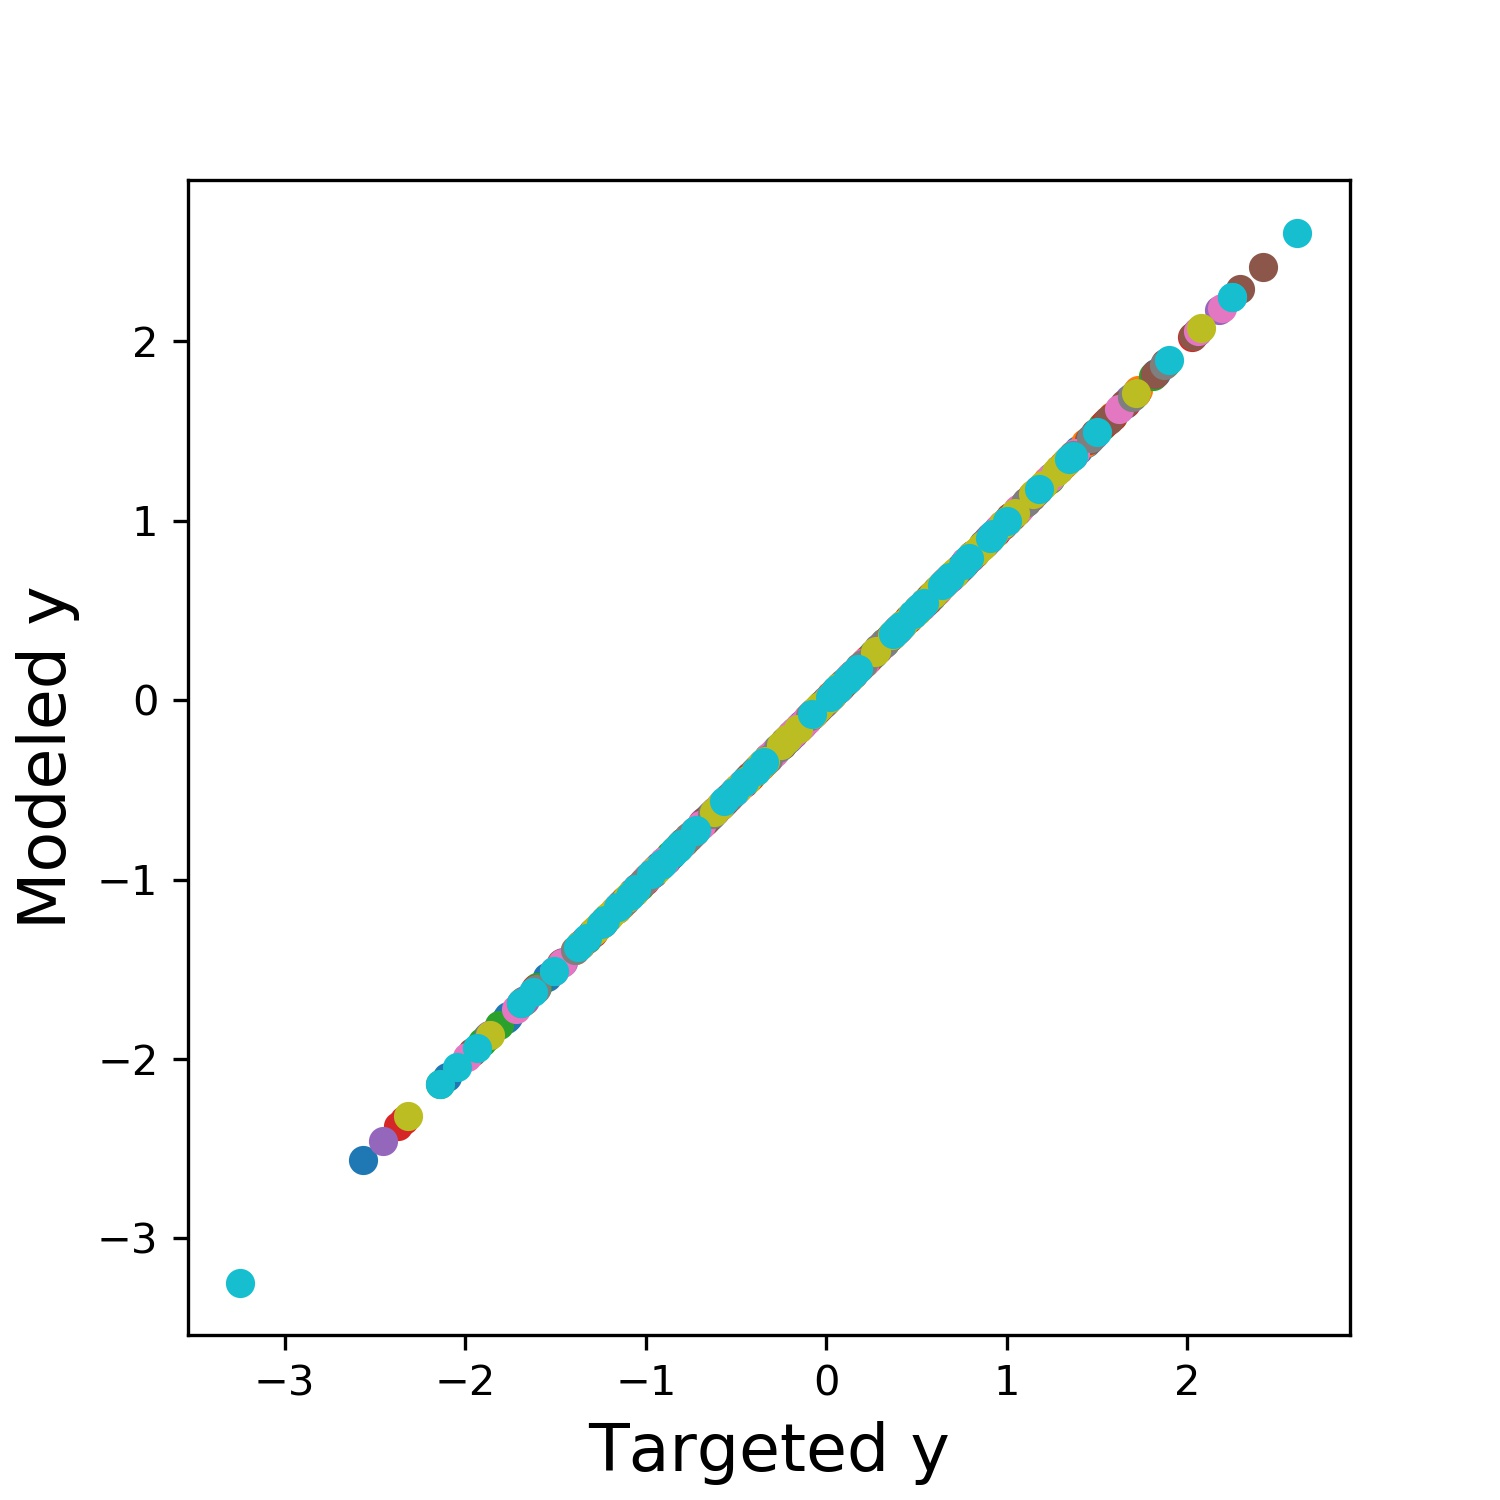
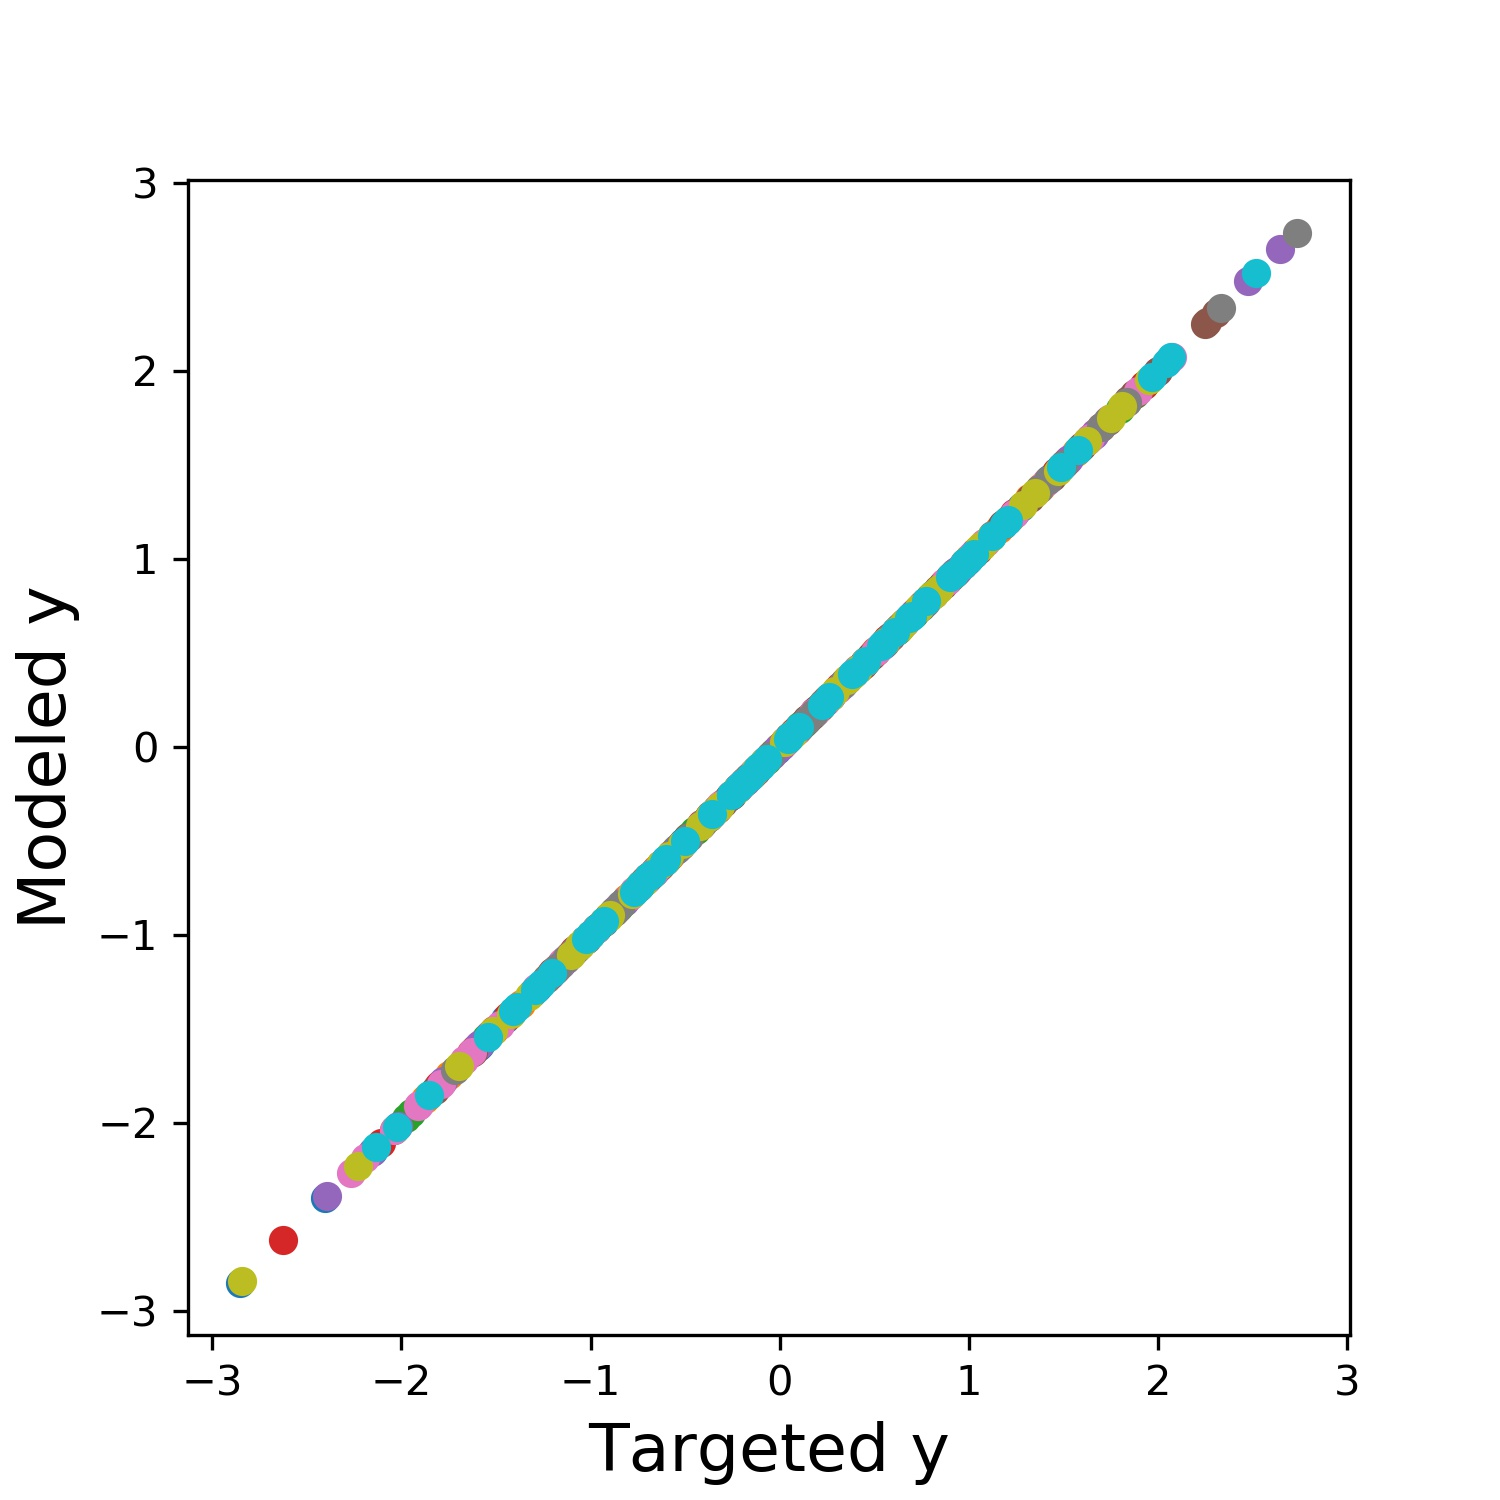
learn more examples of regression

diff --git a/pytorch/py-tutorial-5.py b/pytorch/py-tutorial-5.py
@@ -1,0 +1,120 @@
+# Regression with PyTorch
+# https://medium.com/@benjamin.phillips22/simple-regression-with-neural-networks-in-pytorch-313f06910379
+
+import torch
+from torch.autograd import Variable
+import torch.nn.functional as F
+import torch.utils.data as Data
+
+import matplotlib.pyplot as plt
+# matplotlib inline
+
+import numpy as np
+import imageio
+
+
+# this is one way to define a network
+class Net(torch.nn.Module):
+    def __init__(self, n_feature, n_hidden, n_output):
+        super(Net, self).__init__()
+
+        self.hidden = torch.nn.Linear(n_feature, n_hidden)   # hidden layer
+
+        self.predict = torch.nn.Linear(n_hidden, n_output)   # output layer
+
+    def forward(self, x):
+
+        # TODO: understand activation function
+        x = F.relu(self.hidden(x))      # activation function for hidden layer
+        x = self.predict(x)             # linear output
+
+        return x
+
+# sets the random seed from pytorch random number generators
+torch.manual_seed(1)    # reproducible
+
+# TODO: understand torch.usnqueeze()
+# x = torch.tensor([1,2,3])
+# print(x,x.size(),x.dim())
+
+# y = torch.unsqueeze(x,0)
+# print(y,y.size(),y.dim())
+
+x = torch.unsqueeze(torch.linspace(-1, 1, 100), dim=1)  
+# x data (tensor), shape=(100, 1)
+y = x.pow(2) + 0.2*torch.rand(x.size())
+# noisy y data (tensor), shape=(100, 1)
+
+# torch can only train on Variable, so convert them to Variable
+x, y = Variable(x), Variable(y)
+# TODO: understand Variable
+
+
+# view data
+plt.figure(figsize=(10,4))
+plt.scatter(x.data.numpy(), y.data.numpy(), color = "orange")
+plt.title('Regression Analysis')
+plt.xlabel('Independent varible')
+plt.ylabel('Dependent varible')
+plt.savefig('./tutorial-5-fig-1.jpg',dpi=300)
+
+# ? why in feature 1, hidden feature 10, and out feature 1?
+net = Net(n_feature=1, n_hidden=20, n_output=1)     # define the network
+print(net)  # net architecture
+
+# TODO: understand the optim.SGD
+optimizer = torch.optim.SGD(net.parameters(), lr=0.2)
+
+# define loss function
+loss_func = torch.nn.MSELoss()  # this is for regression mean squared loss
+
+my_images = []
+fig, ax = plt.subplots(figsize=(12,7))
+
+# train the network
+for t in range(200):
+
+    # input x and predict based on x
+    prediction = net(x)     
+
+    # must be (1. nn output, 2. target)
+    loss = loss_func(prediction, y)     
+    print(t, loss.item())
+
+    # clear gradients for next train
+    optimizer.zero_grad()
+
+    # backpropagation, compute gradients
+    loss.backward()
+
+    # apply gradients
+    optimizer.step()
+    
+    
+    # plot and show learning process
+    plt.cla()
+    ax.set_title('Regression Analysis', fontsize=35)
+    ax.set_xlabel('Independent variable', fontsize=24)
+    ax.set_ylabel('Dependent variable', fontsize=24)
+    ax.set_xlim(-1.05, 1.5)
+    ax.set_ylim(-0.25, 1.25)
+    
+    ax.scatter(x.data.numpy(), y.data.numpy(), color = "orange")
+    ax.plot(x.data.numpy(), prediction.data.numpy(), 'g-', lw=3)
+    
+    ax.text(1.0, 0.1, 'Step = %d' % t, fontdict={'size': 24, 'color':  'red'})
+    ax.text(1.0, 0, 'Loss = %.4f' % loss.data.numpy(),
+            fontdict={'size': 24, 'color':  'red'})
+
+    # Used to return the plot as an image array 
+    # (https://ndres.me/post/matplotlib-animated-gifs-easily/)
+
+    fig.canvas.draw()       # draw the canvas, cache the renderer
+    image = np.frombuffer(fig.canvas.tostring_rgb(), dtype='uint8')
+    image  = image.reshape(fig.canvas.get_width_height()[::-1] + (3,))
+    my_images.append(image)
+    
+
+# save images as a gif    
+#imageio.mimsave('./curve_1.gif', my_images, fps=10)
+

diff --git a/pytorch/py-tutorial-4-1.py b/pytorch/py-tutorial-4-1.py
@@ -1,0 +1,110 @@
+# Regression with PyTorch
+# https://carpentries-incubator.github.io/deep-learning_intro/03-regression/index.html
+
+import torch
+import torch.nn as nn
+import torch.nn.functional as F
+
+import numpy as np
+
+import matplotlib.pyplot as plt
+
+import pandas as pd
+
+# 64 samples
+N = 64
+# 1000 neurons in the input layer
+D_in = 1000
+# and 10 neurons in the output layer
+D_out = 10
+
+# Create random Tensors to hold inputs and outputs
+x = torch.randn(N, D_in)
+y = torch.randn(N, D_out)
+
+# ==============================================================================
+# define the neural network
+# 
+# multi-layered neural network will have one hidden layer (it is still not deep learning!) so in total 3 layers:
+# one input layer
+# one hidden layer
+# one output layer
+
+# use Linear model for each layer and we take a ReLU (Rectified Linear Unit)
+# TODO: understand ReLU 
+
+import torch
+class Model(torch.nn.Module):
+
+    def __init__(self, D_in, H, D_out):
+        
+        # H is number of nerons in the hidden layer
+
+        super().__init__()
+
+        # input layer
+        self.l1 = torch.nn.Linear(D_in, H)
+
+        # hidden layer
+        self.relu = torch.nn.ReLU()
+
+        # output layer
+        self.l2=torch.nn.Linear(H, D_out)
+
+    def forward(self, X):
+        return self.l2(self.relu(self.l1(X)))
+
+
+# in hidden layer, define 100 neurons
+H = 100
+
+model = Model(D_in, H, D_out)
+
+loss_fn = torch.nn.MSELoss(reduction = 'sum')
+# TODO: understand 'reduction
+
+# an Optimizer will update the weights of the model
+# Here we will use Adam. The first argument to the Adam constructor tells the
+# optimizer which Tensors it should update.
+
+# learning rate influences the accuracy
+learning_rate = 1e-2
+
+optimizer = torch.optim.Adam(model.parameters(), lr=learning_rate)
+
+for t in range(500):
+
+        
+    # Before the backward pass, use the optimizer object to zero all of the
+    # gradients for the variables it will update (which are the learnable
+    # weights of the model). This is because by default, gradients are
+    # accumulated in buffers( i.e, not overwritten) whenever .backward()
+    # is called. Checkout docs of torch.autograd.backward for more details.
+    optimizer.zero_grad()
+
+    # forward pass: compute predicted y by pssing x to the model
+    y_pred = model(x)
+
+    # compute and print loss
+    loss = loss_fn(y_pred,y)
+    print(t, loss.item())
+
+    # Backward pass: compute gradient of the loss with respect to model
+    # parameters
+    loss.backward()
+
+    # Calling the step function on an Optimizer makes an update to its
+    # parameters
+    optimizer.step()
+
+y_last = model(x)
+print(y_last - y)
+
+
+# matplotlib inline
+plt.figure(figsize=(5,5))
+plt.plot(y.detach().numpy(), y_last.detach().numpy(), 'o')
+plt.xlabel('Targeted y', fontsize=16)
+plt.ylabel('Modeled y', fontsize=16)
+plt.savefig('./model-validation-tutorial-4.jpg',dpi=300)
+

diff --git a/pytorch/py-tutorial-4.py b/pytorch/py-tutorial-4.py
@@ -1,6 +1,8 @@
 # Regression with PyTorch
 # https://carpentries-incubator.github.io/deep-learning_intro/03-regression/index.html
 
+# increase the hidden layers
+
 import torch
 import torch.nn as nn
 import torch.nn.functional as F
@@ -10,17 +12,6 @@ import numpy as np
 import matplotlib.pyplot as plt
 
 import pandas as pd
-
-# 64 samples
-N = 64
-# 1000 neurons in the input layer
-D_in = 1000
-# and 10 neurons in the output layer
-D_out = 10
-
-# Create random Tensors to hold inputs and outputs
-x = torch.randn(N, D_in)
-y = torch.randn(N, D_out)
 
 # ==============================================================================
 # define the neural network
@@ -46,21 +37,37 @@ class Model(torch.nn.Module):
         self.l1 = torch.nn.Linear(D_in, H)
 
         # hidden layer
-        self.relu = torch.nn.ReLU()
+        self.relu_1 = torch.nn.ReLU()
+
+        self.relu_2 = torch.nn.ReLU()
 
         # output layer
         self.l2=torch.nn.Linear(H, D_out)
 
     def forward(self, X):
-        return self.l2(self.relu(self.l1(X)))
+        
+        # return self.l2(self.relu_2(self.relu_1(self.l1(X))))
+        return self.l2(self.relu_1(self.l1(X)))
 
+# ==============================================================================
+# 64 samples
+N = 640
+# 1000 neurons in the input layer
+D_in = 1000
+# and 10 neurons in the output layer
+D_out = 10
 
-# in hidden layer, define 100 neurons
+# Create random Tensors to hold inputs and outputs
+x = torch.randn(N, D_in)
+y = torch.randn(N, D_out)
+
+# in hidden layer, define H neurons
 H = 100
 
 model = Model(D_in, H, D_out)
 
-loss_fn = torch.nn.MSELoss(reduction = 'sum')
+# loss_fn = torch.nn.MSELoss(reduction = 'sum')
+loss_fn = torch.nn.MSELoss()
 # TODO: understand 'reduction
 
 # an Optimizer will update the weights of the model
@@ -68,11 +75,11 @@ loss_fn = torch.nn.MSELoss(reduction = 'sum')
 # optimizer which Tensors it should update.
 
 # learning rate influences the accuracy
-learning_rate = 1e-2
+learning_rate = 1e-4
 
 optimizer = torch.optim.Adam(model.parameters(), lr=learning_rate)
 
-for t in range(500):
+for t in range(5000):
 
         
     # Before the backward pass, use the optimizer object to zero all of the
@@ -97,6 +104,9 @@ for t in range(500):
     # parameters
     optimizer.step()
 
+    if loss < 1e-5:
+        break
+
 y_last = model(x)
 print(y_last - y)
 
@@ -106,5 +116,5 @@ plt.figure(figsize=(5,5))
 plt.plot(y.detach().numpy(), y_last.detach().numpy(), 'o')
 plt.xlabel('Targeted y', fontsize=16)
 plt.ylabel('Modeled y', fontsize=16)
-plt.savefig('./model-validation-tutorial-4.jpg',dpi=300)
+plt.savefig('./model-validation-tutorial-4-1.jpg',dpi=300)
 
